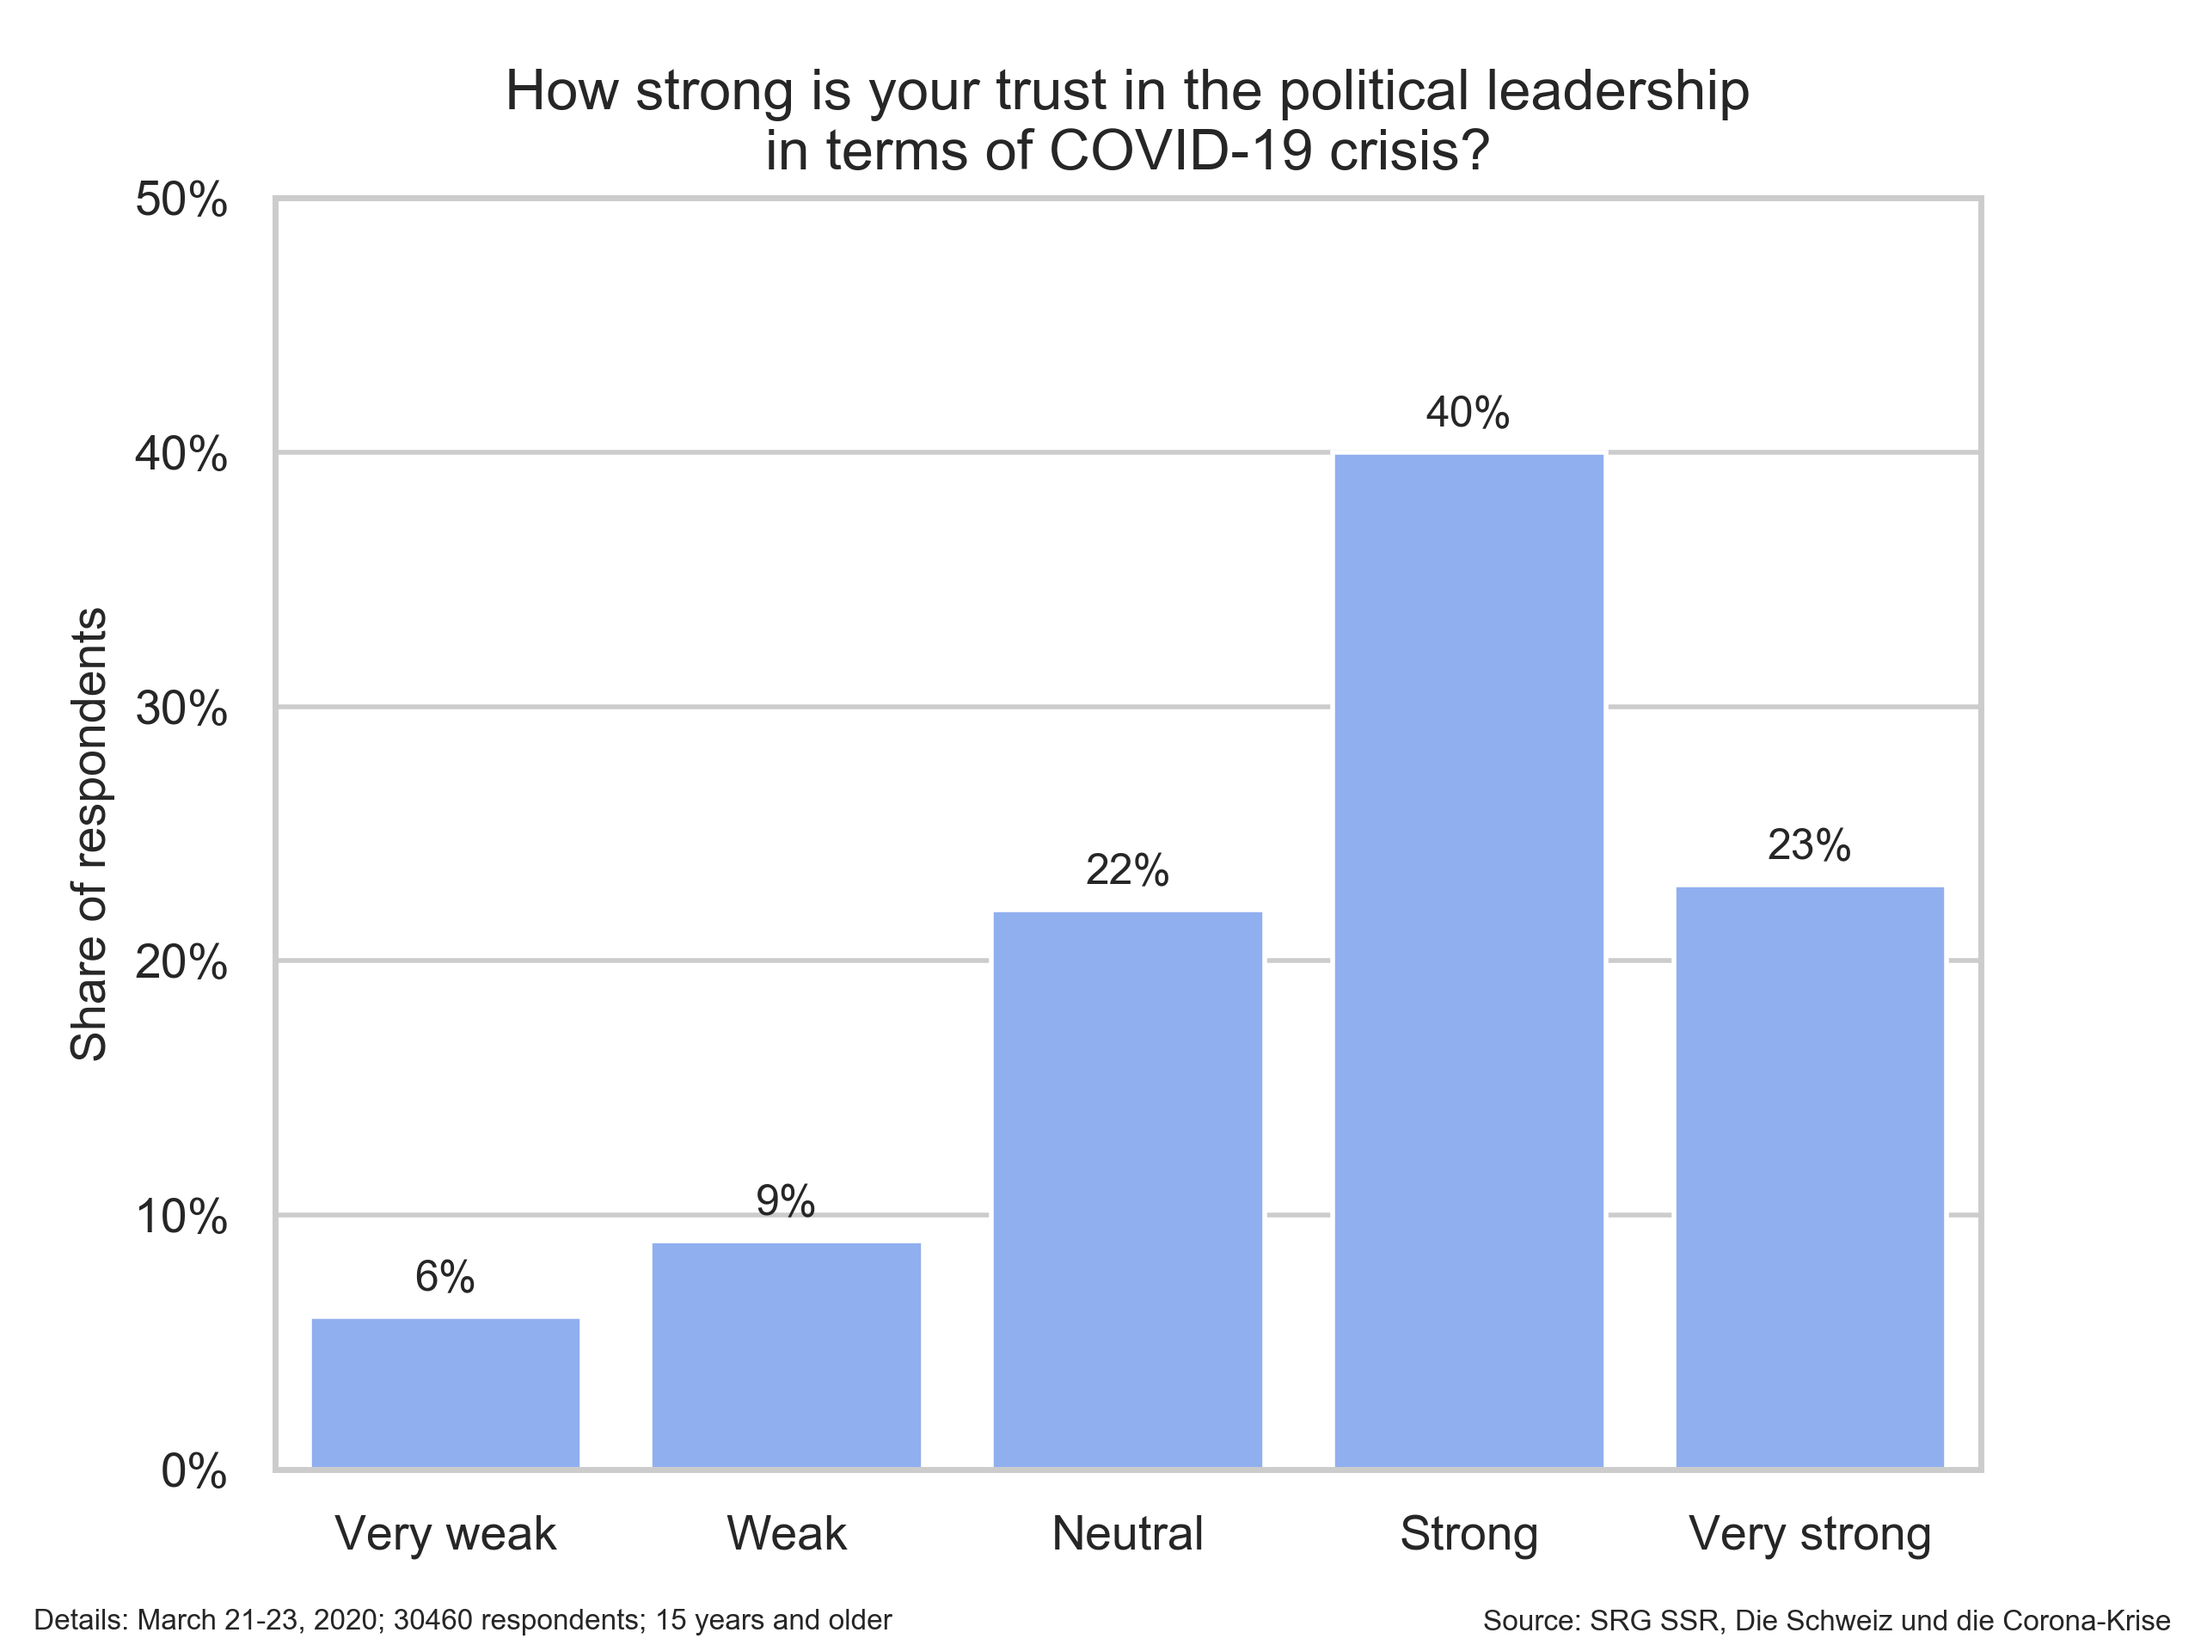
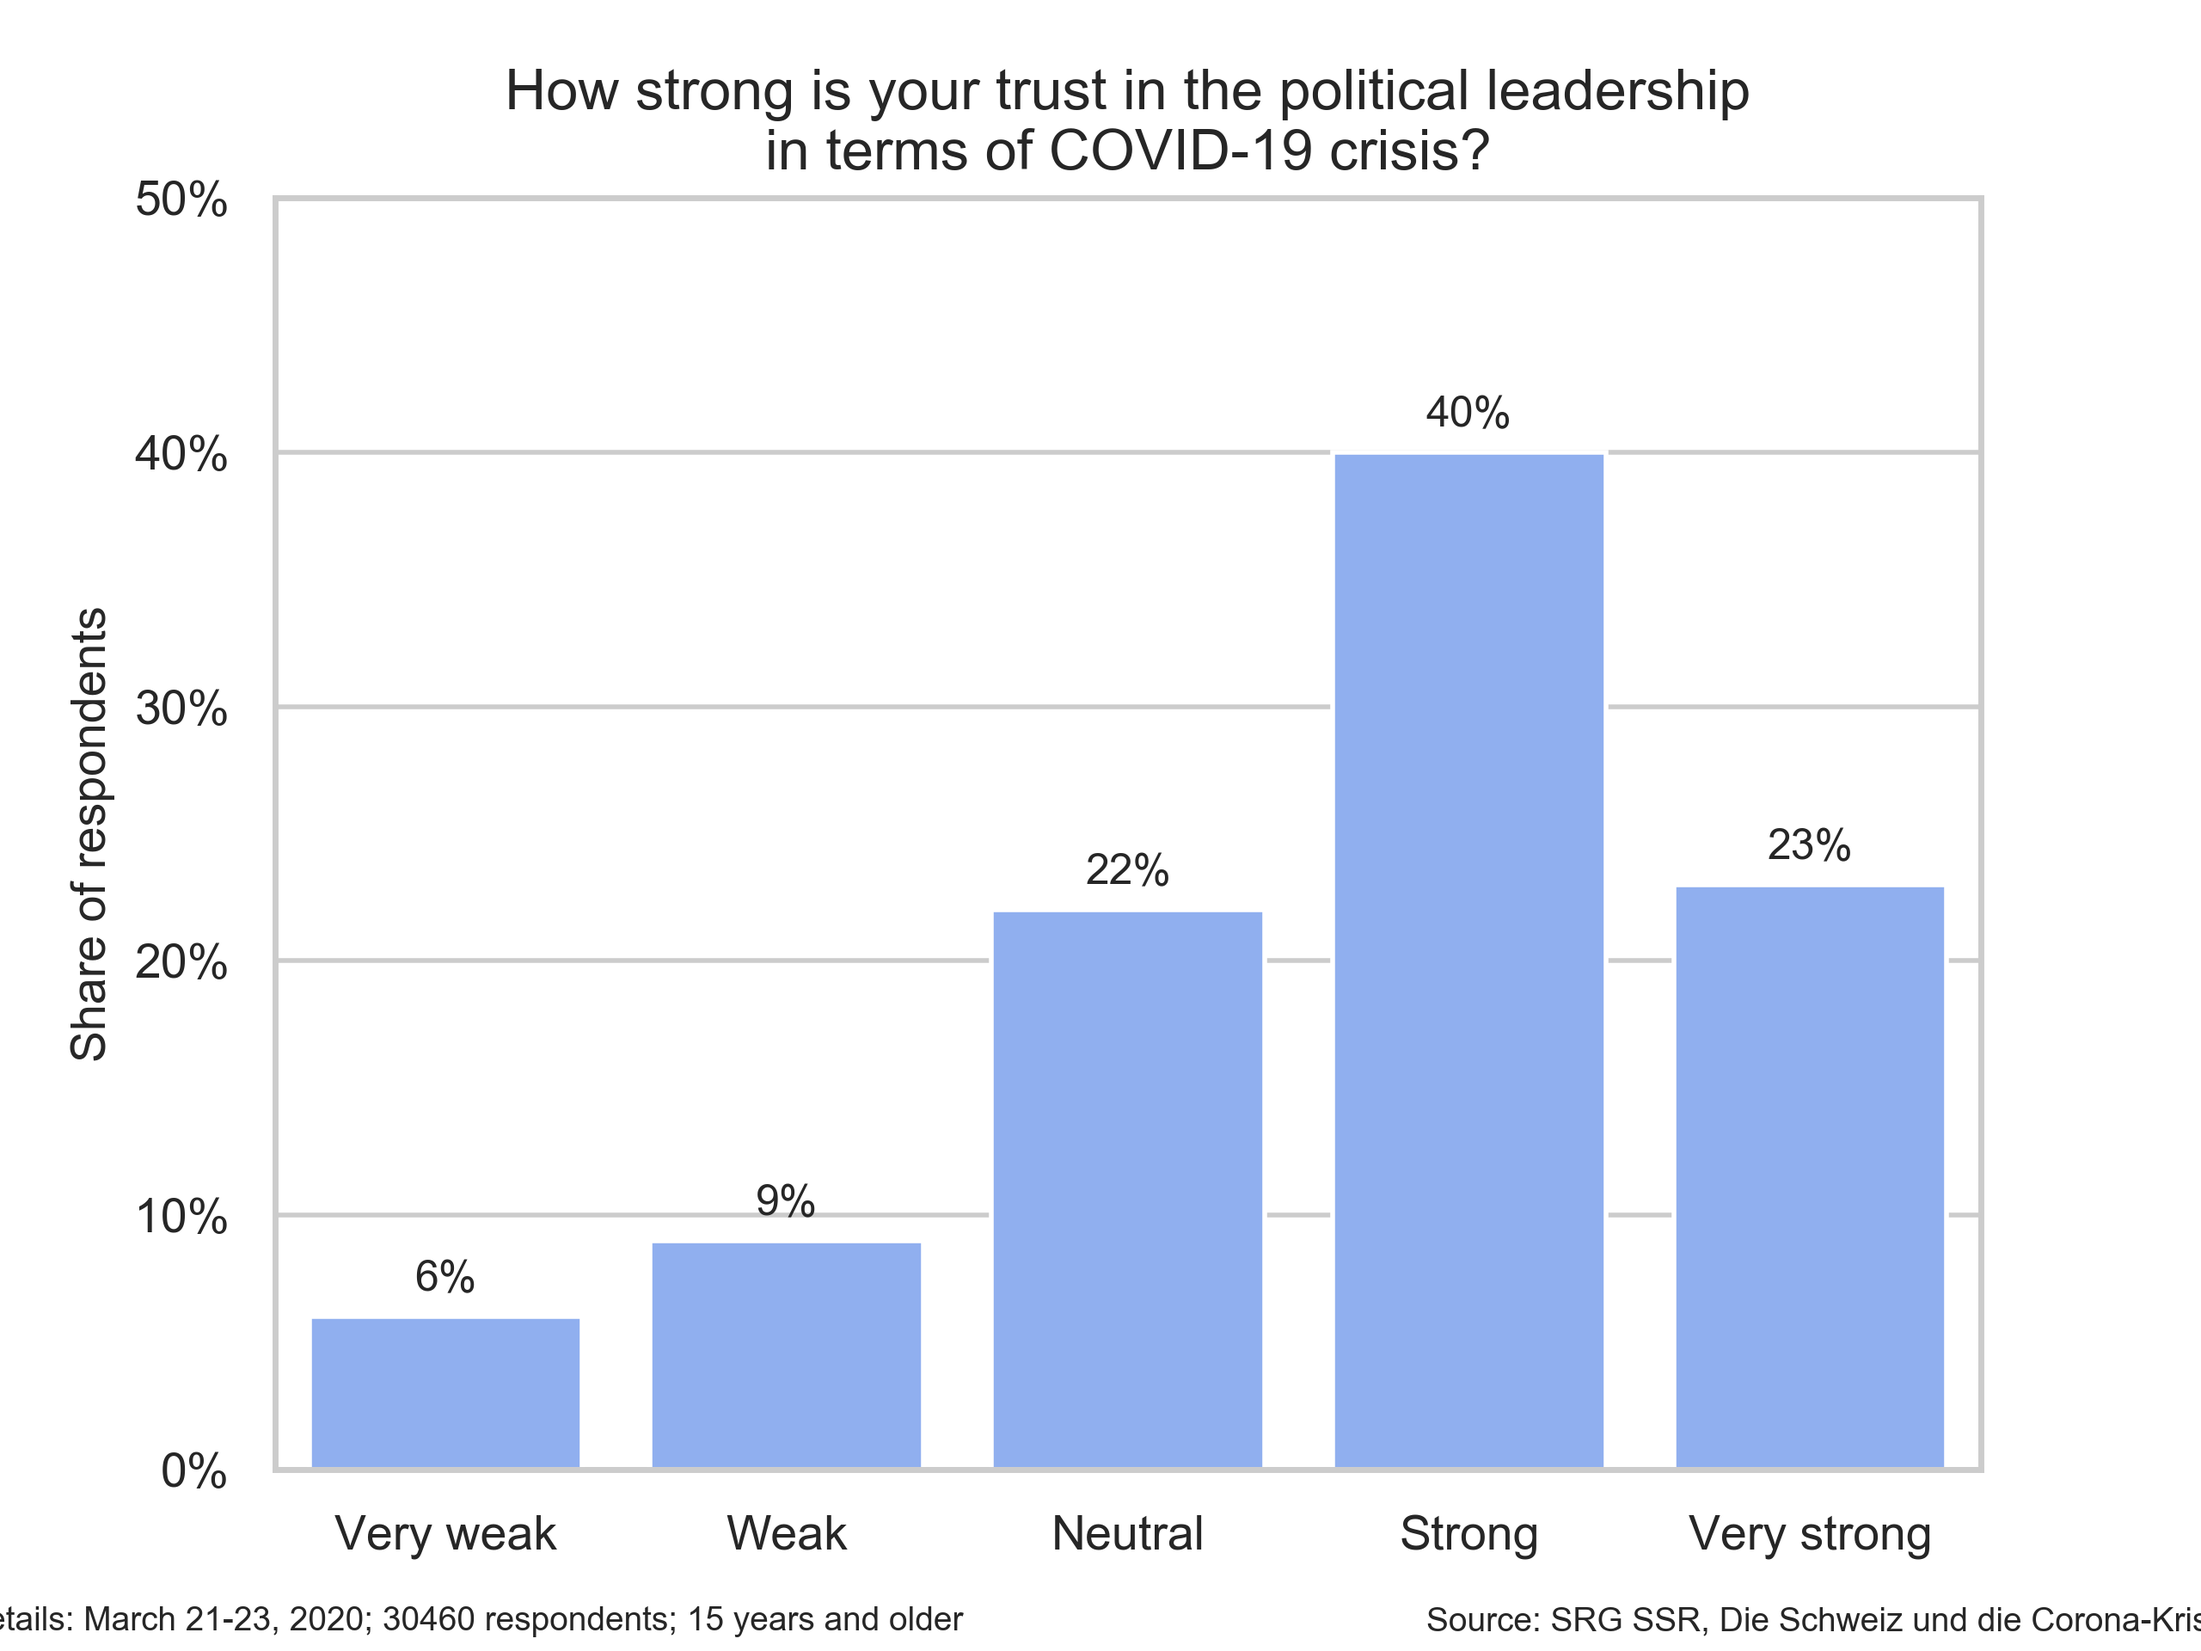
up

Changed region(s): [[0.0, 0.9688, 0.4375, 1.0], [0.6562, 0.9688, 1.0, 1.0]]

diff --git a/final_scripts/survey_fear.py b/final_scripts/survey_fear.py
@@ -3,7 +3,7 @@ import seaborn as sns
 import matplotlib.pyplot as plt
 import numpy as np
 
-data = pd.read_csv('survey_fear.csv')
+data = pd.read_csv('../data/survey_fear.csv')
 
 sns.set(style="whitegrid")
 
@@ -21,13 +21,13 @@ for p in ax.patches:
             height + 1, str(int(height))+'%',
             ha="center", size=9)
 
-plt.text(1, -0.12, 'Source: dieMarktforscher.org',
+plt.text(0.98, -0.13, 'Source: dieMarktforscher.org',
          horizontalalignment='center',
-         verticalalignment='center', transform=ax.transAxes, size=6)
+         verticalalignment='center', transform=ax.transAxes, size=7)
 
-plt.text(0.1, -0.12, 'Details: Switzerland; March 9-11; 18-69 years; 520 respondents',
+plt.text(0.12, -0.13, 'Details: Switzerland; March 9-11; 18-69 years; 520 respondents',
          horizontalalignment='center',
-         verticalalignment='center', transform=ax.transAxes, size=6)
+         verticalalignment='center', transform=ax.transAxes, size=7)
 
 
 plt.savefig('survey_fear.png', dpi=400)

diff --git a/final_scripts/survey_leadership.py b/final_scripts/survey_leadership.py
@@ -3,7 +3,7 @@ import seaborn as sns
 import matplotlib.pyplot as plt
 import numpy as np
 
-data = pd.read_csv('survey_leadership.csv')
+data = pd.read_csv('../data/survey_leadership.csv')
 
 sns.set(style="whitegrid")
 
@@ -23,11 +23,11 @@ for p in ax.patches:
 
 plt.text(0.91, -0.12, 'Source: SRG SSR, Die Schweiz und die Corona-Krise',
          horizontalalignment='center',
-         verticalalignment='center', transform=ax.transAxes, size=6)
+         verticalalignment='center', transform=ax.transAxes, size=7)
 
 plt.text(0.11, -0.12, 'Details: March 21-23, 2020; 30460 respondents; 15 years and older',
          horizontalalignment='center',
-         verticalalignment='center', transform=ax.transAxes, size=6)
+         verticalalignment='center', transform=ax.transAxes, size=7)
 
 
 plt.savefig('survey_leadership.png', dpi=400)
